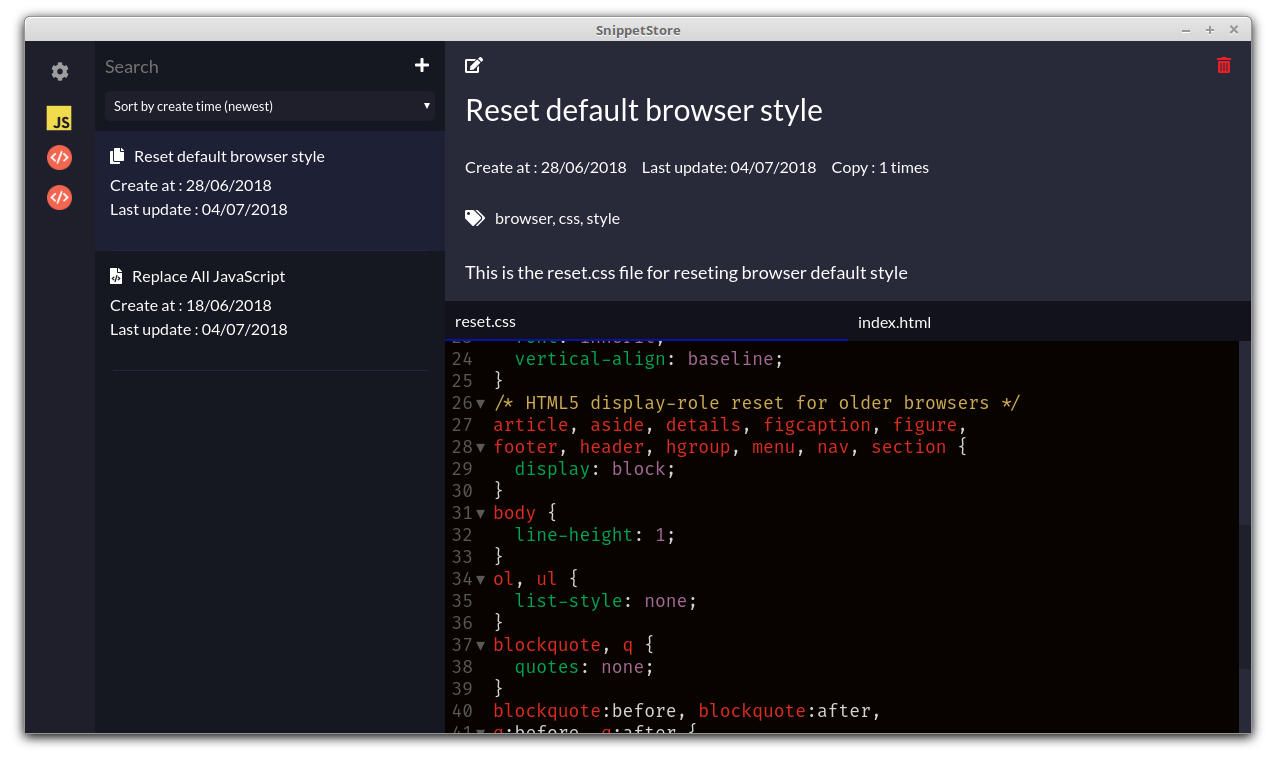
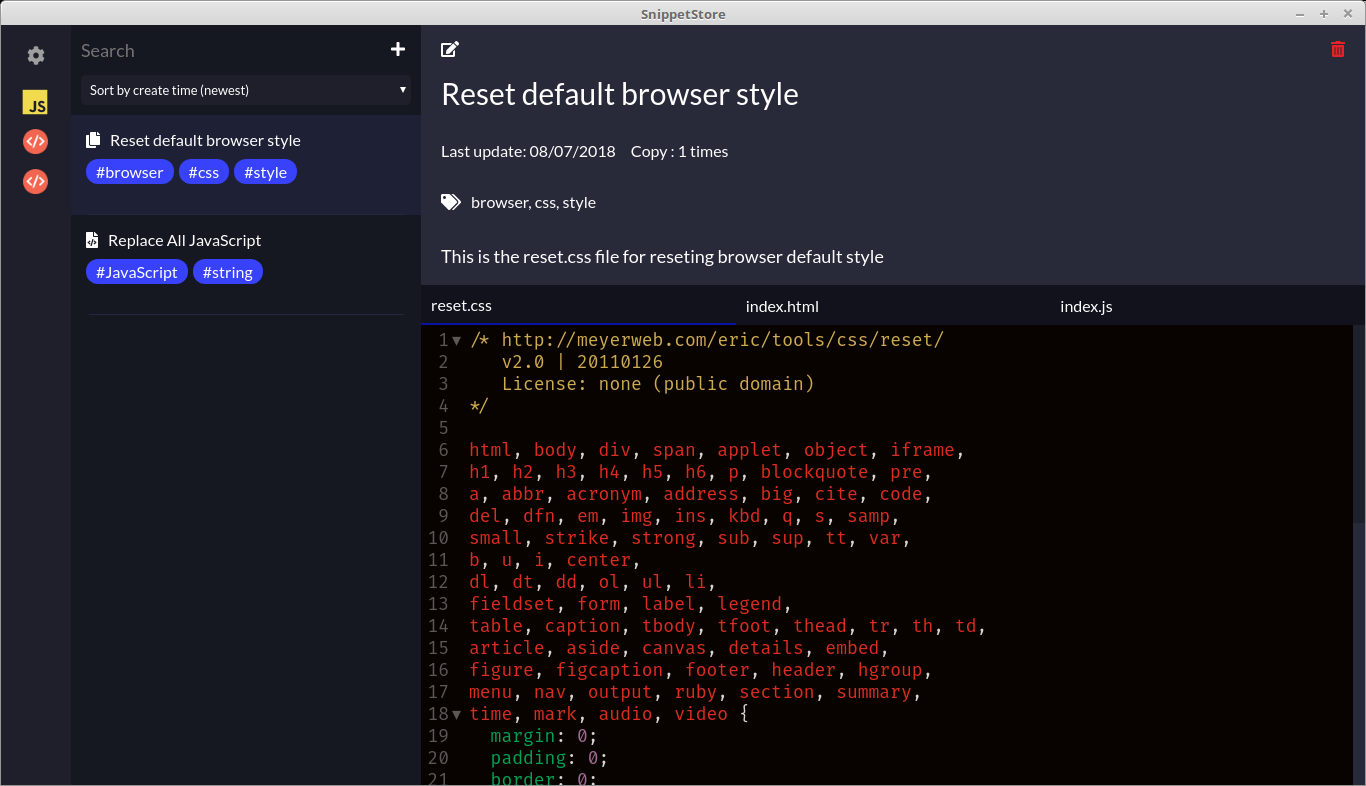
updated snippet-item in original layout with tag item

Changed region(s): [[0.0, 0.0, 1.0, 1.0]]

diff --git a/browser/render/layouts/original/snippet-item/index.jsx b/browser/render/layouts/original/snippet-item/index.jsx
@@ -7,6 +7,7 @@ import Clipboard from 'core/functions/clipboard'
 import formatDate from 'lib/date-format'
 import defaultLanguageIcon from 'resources/image/defaultLanguageIcon.png'
 import isDevIconExists from 'lib/devicon-exists'
+import TagItem from 'render/components/tag-item'
 import i18n from 'render/lib/i18n'
 import CodeMirror from 'codemirror'
 import 'codemirror/mode/meta'
@@ -276,7 +277,7 @@ export default class SnippetItem extends React.Component {
             defaultValue={snippet.tags.join(', ')}
           />
         ) : (
-          snippet.tags.join(', ')
+          snippet.tags.map((tag, index) => <TagItem tag={tag} key={index} />)
         )}
       </div>
     )

diff --git a/browser/render/layouts/original/snippet-item-multi-files/index.jsx b/browser/render/layouts/original/snippet-item-multi-files/index.jsx
@@ -8,6 +8,7 @@ import { toJS } from 'mobx'
 import _ from 'lodash'
 import formatDate from 'lib/date-format'
 import { getExtension, generateKey } from 'lib/util'
+import TagItem from 'render/components/tag-item'
 import CodeMirror from 'codemirror'
 import 'codemirror/mode/meta'
 import 'codemirror/addon/display/autorefresh'
@@ -262,7 +263,7 @@ export default class SnippetItemMultiFiles extends React.Component {
             defaultValue={snippet.tags.join(', ')}
           />
         ) : (
-          snippet.tags.join(', ')
+          snippet.tags.map((tag, index) => <TagItem tag={tag} key={index} />)
         )}
       </div>
     )

diff --git a/browser/render/layouts/original/snippet-item-multi-files/snippet-item-multi-file.sass b/browser/render/layouts/original/snippet-item-multi-files/snippet-item-multi-file.sass
@@ -62,7 +62,6 @@
       width: 100%
       border: none
       outline: none
-      background: transparent
       font-size: 15px
       border-radius: 5px
       padding: 2px 5px

diff --git a/browser/render/layouts/original/snippet-item/snippet-item.sass b/browser/render/layouts/original/snippet-item/snippet-item.sass
@@ -62,7 +62,6 @@
       width: 100%
       border: none
       outline: none
-      background: transparent
       font-size: 15px
       border-radius: 5px
       padding: 2px 5px

diff --git a/CHANGELOG.md b/CHANGELOG.md
@@ -11,6 +11,7 @@ Every notable changes in each version will be listed in this file.
 ## Improvements:
 
 - **Development**: Improved event handler in search bar in 2 layouts ([64934e4](https://github.com/ZeroX-DG/SnippetStore/commit/64934e4))
+- **Interface**: Updated snippet item layout with new tag item ([cbca845](https://github.com/ZeroX-DG/SnippetStore/commit/cbca845))
 
 # 0.2.0
 
